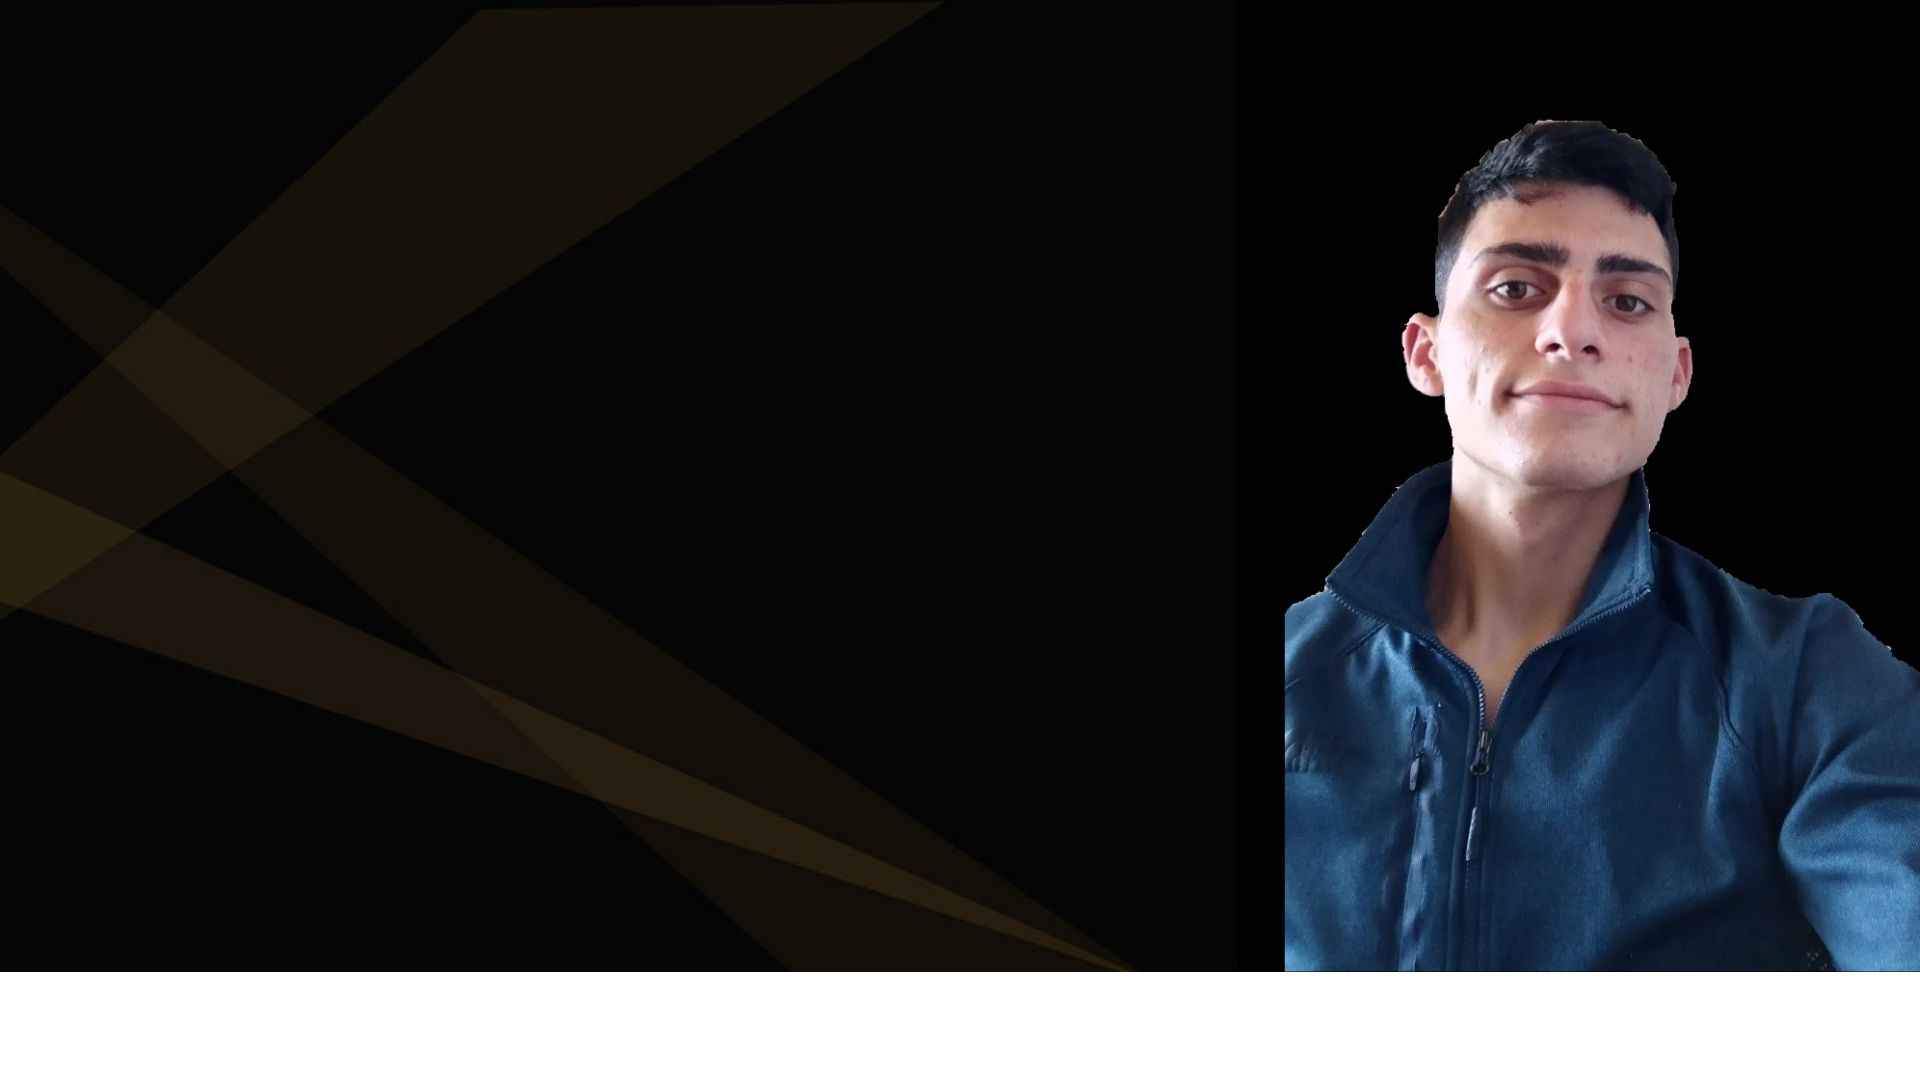
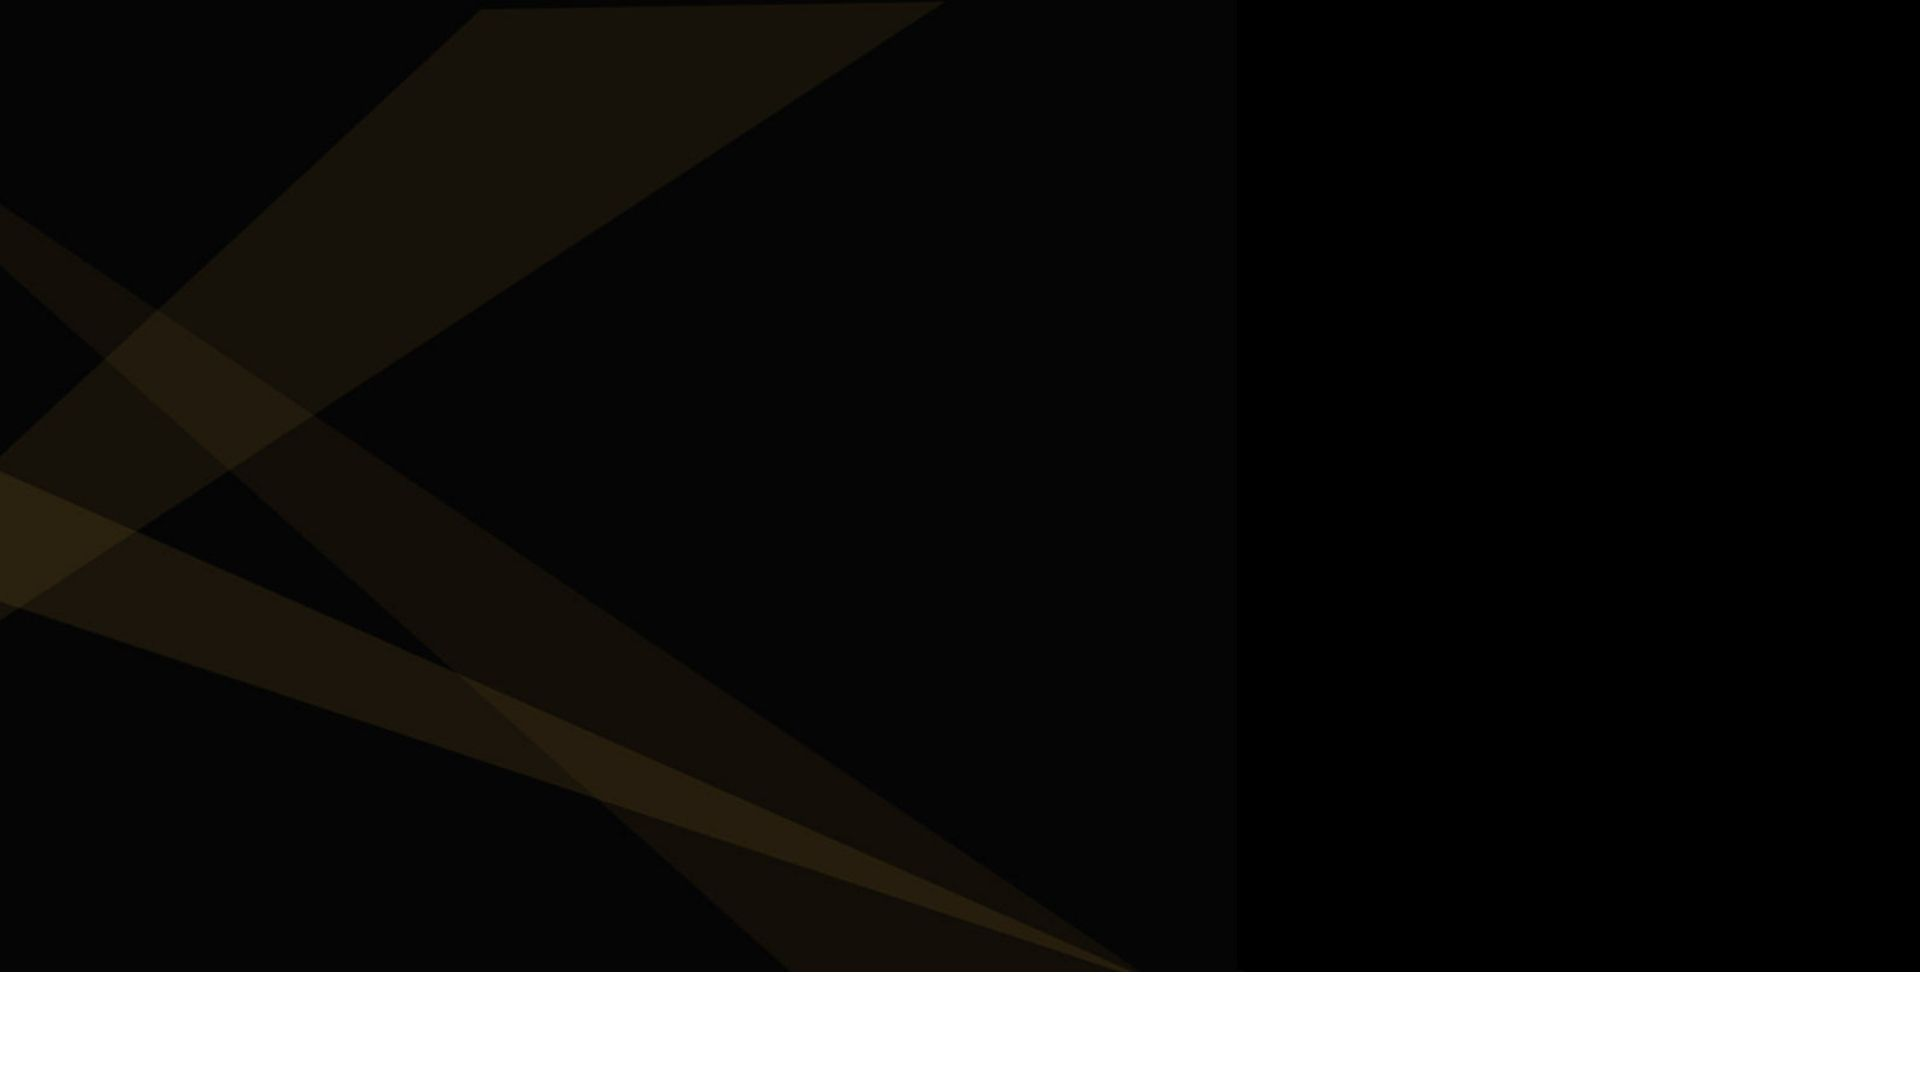
Version with my multimedia content

Changed region(s): [[0.6562, 0.0917, 1.0, 0.9167]]

diff --git a/css/main.css b/css/main.css
@@ -113,8 +113,112 @@
     background: none;
 }
 
+
+/* ABOUT SECTION */
+
+.about{
+    font-family: 'Poppins', sans-serif;
+}
+.about .title{
+    position: relative;
+    font-family: 'Ubuntu', sans-serif;
+    text-align: center;
+    font-size: 40px;
+    font-weight: 500;
+    margin-bottom: 60px;
+    padding-bottom: 20px;
+}
+.about .title::before{
+    content: "";
+    position: absolute;
+    width: 180px;
+    height: 3px;
+    bottom: 0px;
+    left: 50%;
+    background: #111;
+    transform: translateX(-50%);
+}
+.about .title::after{
+    content: "who i am";
+    position: absolute;
+    bottom: -10px;
+    left: 50%;
+    padding: 5px;
+    font-size: 20px;
+    background: #fff;
+    color: crimson;
+    transform: translateX(-50%);
+}
+.about .about-content .left img{
+    height: 400px;
+    width: 400px;
+    object-fit: cover;
+}
+.about .about-content{
+    display: flex;
+    flex-wrap: wrap;
+    align-items: center;
+    justify-content: space-between;
+}
+.about .about-content .left{
+    width: 45%;
+}
+.about .about-content .right{
+    width: 55%;
+}
+.about .about-content .right .text{
+    font-size: 25px;
+    font-weight: 600;
+    margin-bottom: 10px;
+}
+.about .about-content .right .text span{
+    color: crimson;
+}
+.about .about-content .right p{
+    text-align: justify;
+}
+.about .about-content .right a{
+    display: inline-block;
+    background: crimson;
+    font-weight: 500;
+    color: #fff;
+    font-size: 20px;
+    padding: 10px 30px;
+    margin-top: 20px;
+    border-radius: 6px;
+    border: 2px solid crimson;
+    transition: all .3s ease;
+}
+.about .about-content .right a:hover{
+    background: none;
+    color: crimson;
+}
+
+
+
+
+
+
+
+
+
+
+
+
+
+
+
 /* Media queries at start */
+@media(max-width:1300px){
+    .home .max-width{
+        margin-left: 0px;
+    }
+}
 @media(max-width: 1104px){
+    .about .about-content .left img{
+        height: 350px;
+        width: 350px;
+    }
     .home .max-width{
         margin-left: 0px;
     }
@@ -164,6 +268,20 @@
         font-size: 23px;
         padding: 10px 30px;
     }
+    .about .about-content .column{
+        width: 100%;
+    }
+    .max-width{
+        max-width: 800px;
+    }
+    .about .about-content .left{
+        display: flex;
+        justify-content: center;
+        margin: 0 auto 60px;
+    }
+    .about .about-content .right{
+        flex: 100%;
+    }
 }
 @media(max-width: 690px){
     .max-width{
@@ -189,44 +307,3 @@
 }
 
 
-
-/* ABOUT SECTION */
-
-.about{
-    font-family: 'Poppins', sans-serif;
-}
-.about .title{
-    position: relative;
-    font-family: 'Ubuntu', sans-serif;
-    text-align: center;
-    font-size: 40px;
-    font-weight: 500;
-    margin-bottom: 60px;
-    padding-bottom: 20px;
-}
-.about .title::before{
-    content: "";
-    position: absolute;
-    width: 180px;
-    height: 3px;
-    bottom: 0px;
-    left: 50%;
-    background: #111;
-    transform: translateX(-50%);
-}
-.about .title::after{
-    content: "who i am";
-    position: absolute;
-    bottom: -10px;
-    left: 50%;
-    padding: 5px;
-    font-size: 20px;
-    background: #fff;
-    color: crimson;
-    transform: translateX(-50%);
-}
-.about .about-content .left img{
-    height: 400px;
-    width: 400px;
-    object-fit: cover;
-}
